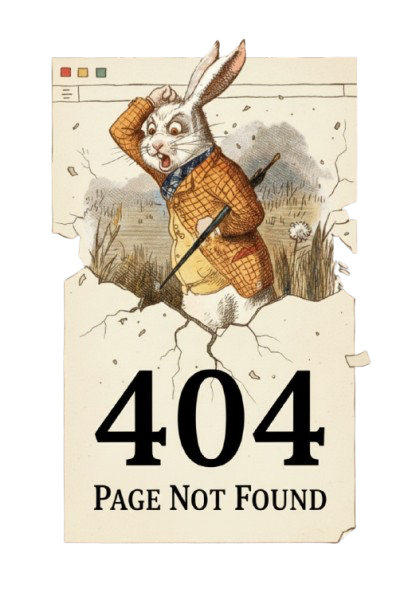
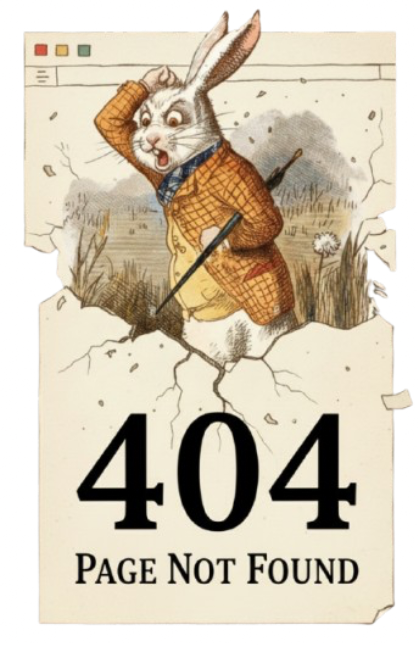
wly-98: center img and make it responsive

diff --git a/src/routes/[...404].tsx b/src/routes/[...404].tsx
@@ -1,16 +1,16 @@
 import { A } from "@solidjs/router";
 import useNoScrollRestoration from "~/hooks/useNoScrollRestoration";
+import mainColumnWidth from "~/hooks/useMainColumnWidth";
 
 export default function NotFound() {
   useNoScrollRestoration();
 
   return (
-    <div class="mb-8">
+    <div class="fixed top-1/2 left-1/2 -translate-x-1/2 -translate-y-1/2">
       <img
         src="/non-build-img/404.png"
         alt="404 - Page not found"
-        class="max-w-full h-auto mx-auto"
-        style="max-height: 400px;"
+        style={`max-width:${mainColumnWidth() * 0.7}px;max-height:65vh;`}
       />
     </div>
   );
